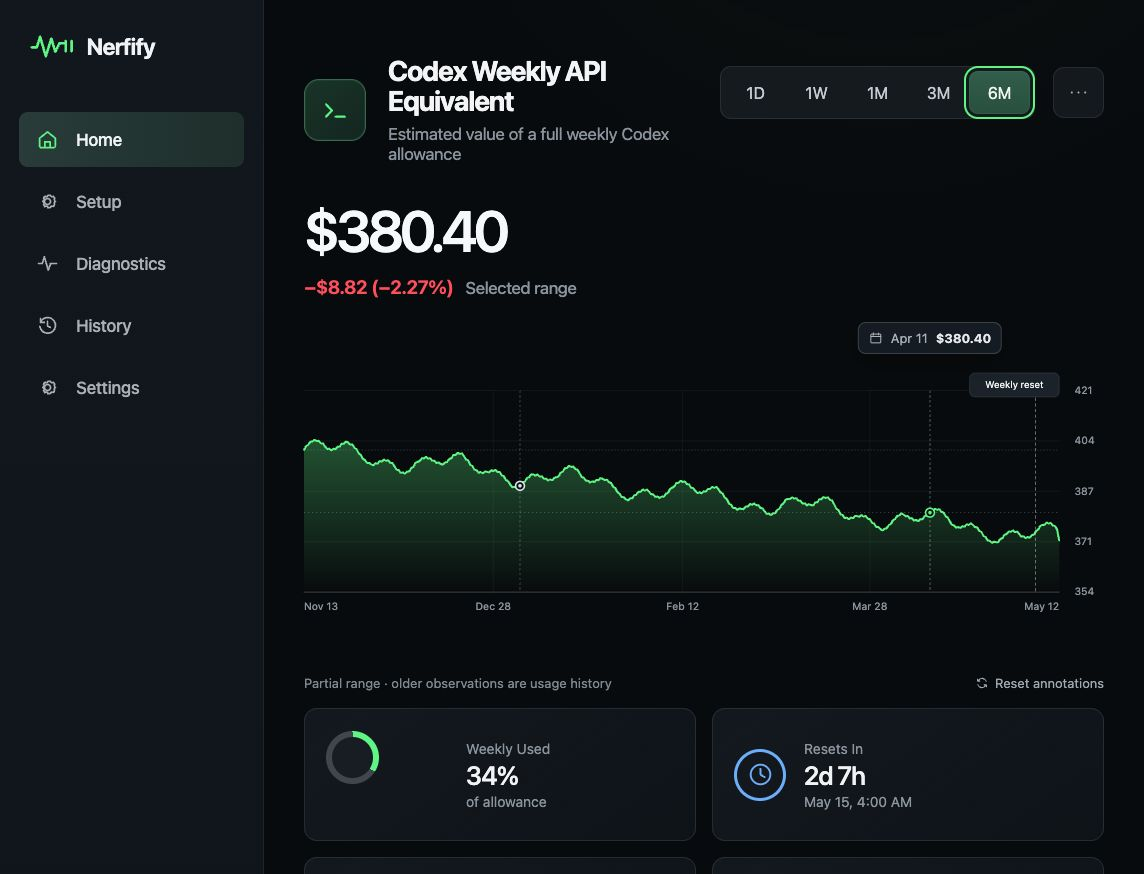
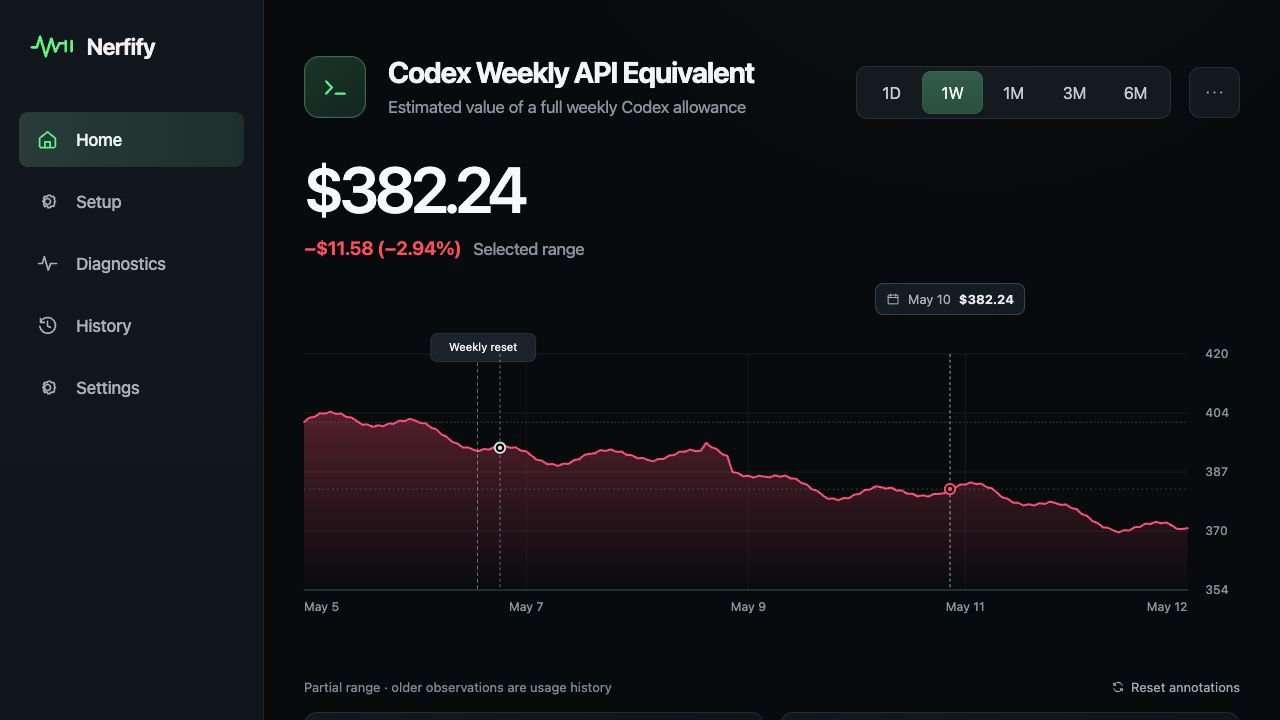
Color chart by signed range change

diff --git a/src/components/UsageChart.tsx b/src/components/UsageChart.tsx
@@ -7,6 +7,7 @@ interface UsageChartProps {
   annotations: Annotation[];
   range: Range;
   reducedMotion: boolean;
+  changeUsd?: number | null;
   onScrub?: (point: HistoryPoint | null, anchor: HistoryPoint | null) => void;
 }
 
@@ -94,6 +95,7 @@ export function UsageChart({
   annotations,
   range,
   reducedMotion,
+  changeUsd = null,
   onScrub,
 }: UsageChartProps) {
   const svgRef = useRef<SVGSVGElement>(null);
@@ -157,6 +159,14 @@ export function UsageChart({
     };
   }, [anchorPoint, bounds.max, bounds.min, points]);
   const baselineCoordinate = coordinates.find((_, index) => points[index]?.valueUsd !== null);
+  const dragChange =
+    anchorPoint?.valueUsd != null &&
+    selected?.valueUsd != null &&
+    (selection?.source === 'held' || selection?.source === 'locked')
+      ? selected.valueUsd - anchorPoint.valueUsd
+      : null;
+  const isNegative = (dragChange ?? changeUsd ?? 0) < 0;
+  const chartColor = isNegative ? '#ff5d73' : '#5cf07a';
 
   const selectPoint = (index: number) => {
     const point = points[index];
@@ -250,7 +260,12 @@ export function UsageChart({
   ];
 
   return (
-    <div className={`usage-chart ${reducedMotion ? 'reduced-motion' : ''}`}>
+    <div
+      className={`usage-chart chart-${isNegative ? 'negative' : 'positive'} ${
+        reducedMotion ? 'reduced-motion' : ''
+      }`}
+      style={{ '--chart-color': chartColor } as React.CSSProperties}
+    >
       <div className="chart-canvas-wrap">
         {selected && selectedCoordinate && (
           <div
@@ -325,9 +340,9 @@ export function UsageChart({
         >
           <defs>
             <linearGradient id="usage-area" x1="0" y1="0" x2="0" y2="1">
-              <stop offset="0" stopColor="#5cf07a" stopOpacity="0.3" />
-              <stop offset="0.72" stopColor="#5cf07a" stopOpacity="0.09" />
-              <stop offset="1" stopColor="#5cf07a" stopOpacity="0" />
+              <stop offset="0" stopColor={chartColor} stopOpacity="0.3" />
+              <stop offset="0.72" stopColor={chartColor} stopOpacity="0.09" />
+              <stop offset="1" stopColor={chartColor} stopOpacity="0" />
             </linearGradient>
           </defs>
           {gridValues.map((_, index) => {

diff --git a/src/components/UsageChart.test.tsx b/src/components/UsageChart.test.tsx
@@ -13,9 +13,11 @@ describe('UsageChart', () => {
         annotations={demoAnnotations}
         range="1W"
         reducedMotion={false}
+        changeUsd={-1}
       />,
     );
     const chart = screen.getByRole('img', { name: /Estimated weekly API equivalent/ });
+    expect(chart.closest('.usage-chart')).toHaveClass('chart-negative');
     await user.click(chart);
     await user.keyboard('{ArrowLeft}');
     expect(screen.getAllByText(/May/).length).toBeGreaterThan(0);
@@ -51,6 +53,7 @@ describe('UsageChart', () => {
     expect(chart).toHaveAttribute('aria-grabbed', 'false');
     expect(chart.querySelector('.chart-anchor-marker')).toBeInTheDocument();
     expect(chart.querySelector('.chart-crosshair')).toBeInTheDocument();
+    expect(chart.closest('.usage-chart')).toHaveClass('chart-negative');
     expect(onScrub).toHaveBeenCalledTimes(2);
     expect(onScrub.mock.calls[1][0].timestamp).toBeGreaterThan(onScrub.mock.calls[0][0].timestamp);
     expect(onScrub.mock.calls[1][1]).toEqual(onScrub.mock.calls[0][0]);
@@ -109,5 +112,9 @@ describe('UsageChart', () => {
     expect(interpolated.valueUsd).toBeCloseTo(50);
     expect(interpolated.timestamp).not.toBe(points[0].timestamp);
     expect(interpolated.timestamp).not.toBe(points[1].timestamp);
+
+    fireEvent(chart, new MouseEvent('pointerdown', { bubbles: true, clientX: 200 }));
+    fireEvent(chart, new MouseEvent('pointermove', { bubbles: true, clientX: 800 }));
+    expect(chart.closest('.usage-chart')).toHaveClass('chart-positive');
   });
 });

diff --git a/src/styles.css b/src/styles.css
@@ -419,7 +419,7 @@ p {
 }
 .chart-line {
   fill: none;
-  stroke: var(--green);
+  stroke: var(--chart-color, var(--green));
   stroke-width: 2;
   stroke-linecap: round;
   stroke-linejoin: round;
@@ -462,11 +462,11 @@ p {
 }
 .chart-crosshair circle {
   fill: var(--bg);
-  stroke: var(--green);
+  stroke: var(--chart-color, var(--green));
   stroke-width: 2;
 }
 .chart-crosshair circle + circle {
-  fill: var(--green);
+  fill: var(--chart-color, var(--green));
   stroke: none;
 }
 .chart-anchor-marker line {

diff --git a/src/App.tsx b/src/App.tsx
@@ -178,6 +178,7 @@ function HomeView({
           annotations={annotations}
           range={range}
           reducedMotion={reducedMotion}
+          changeUsd={history.statistics.deltaUsd}
           onScrub={(point, anchor) => setScrubbed(point ? { point, anchor } : null)}
         />
         <div className="chart-actions">

diff --git a/design-qa.md b/design-qa.md
@@ -35,6 +35,7 @@ The combined comparison shows the reference and implementation chart regions tog
 - The starting point remains marked with a light endpoint and guide while the green ending point follows the drag.
 - Live start-to-end verification produced `$382.13`, `−$11.05`, and `−2.81%`.
 - All five history ranges are cached by range after initial load; switching tabs paints the matching dataset immediately and stale requests cannot replace it.
+- Normal charts use the selected range delta for color; held drags use the live end-minus-start delta. Negative line/fill/endpoint states are red and positive states are green.
 - Press-and-drag scrubbing selects continuously interpolated time and value data rather than snapping to stored vertices.
 - A one-pixel pointer sweep returned six distinct values (`$392.97`, `$393.07`, `$393.48`, `$393.90`, `$394.31`, `$394.73`), confirming fine-grained tracking.
 - Selection persisted after pointer release.
@@ -52,7 +53,8 @@ The combined comparison shows the reference and implementation chart regions tog
 6. Added Apple-style start-to-end dollar and percentage comparison during held drags.
 7. Added separate starting and ending endpoint markers.
 8. Replaced the shared history state with a range-keyed cache to remove stale-data lag between time windows.
-9. Final live verification confirms both endpoint markers, immediate 1D/6M switching, correct start/end comparison, and no console errors.
+9. Unified normal and drag chart color with the signed comparison value.
+10. Final live verification confirms red normal/negative drag states, a green `+$11.58 (+3.03%)` positive drag state, and no console errors.
 
 ## Findings
 
